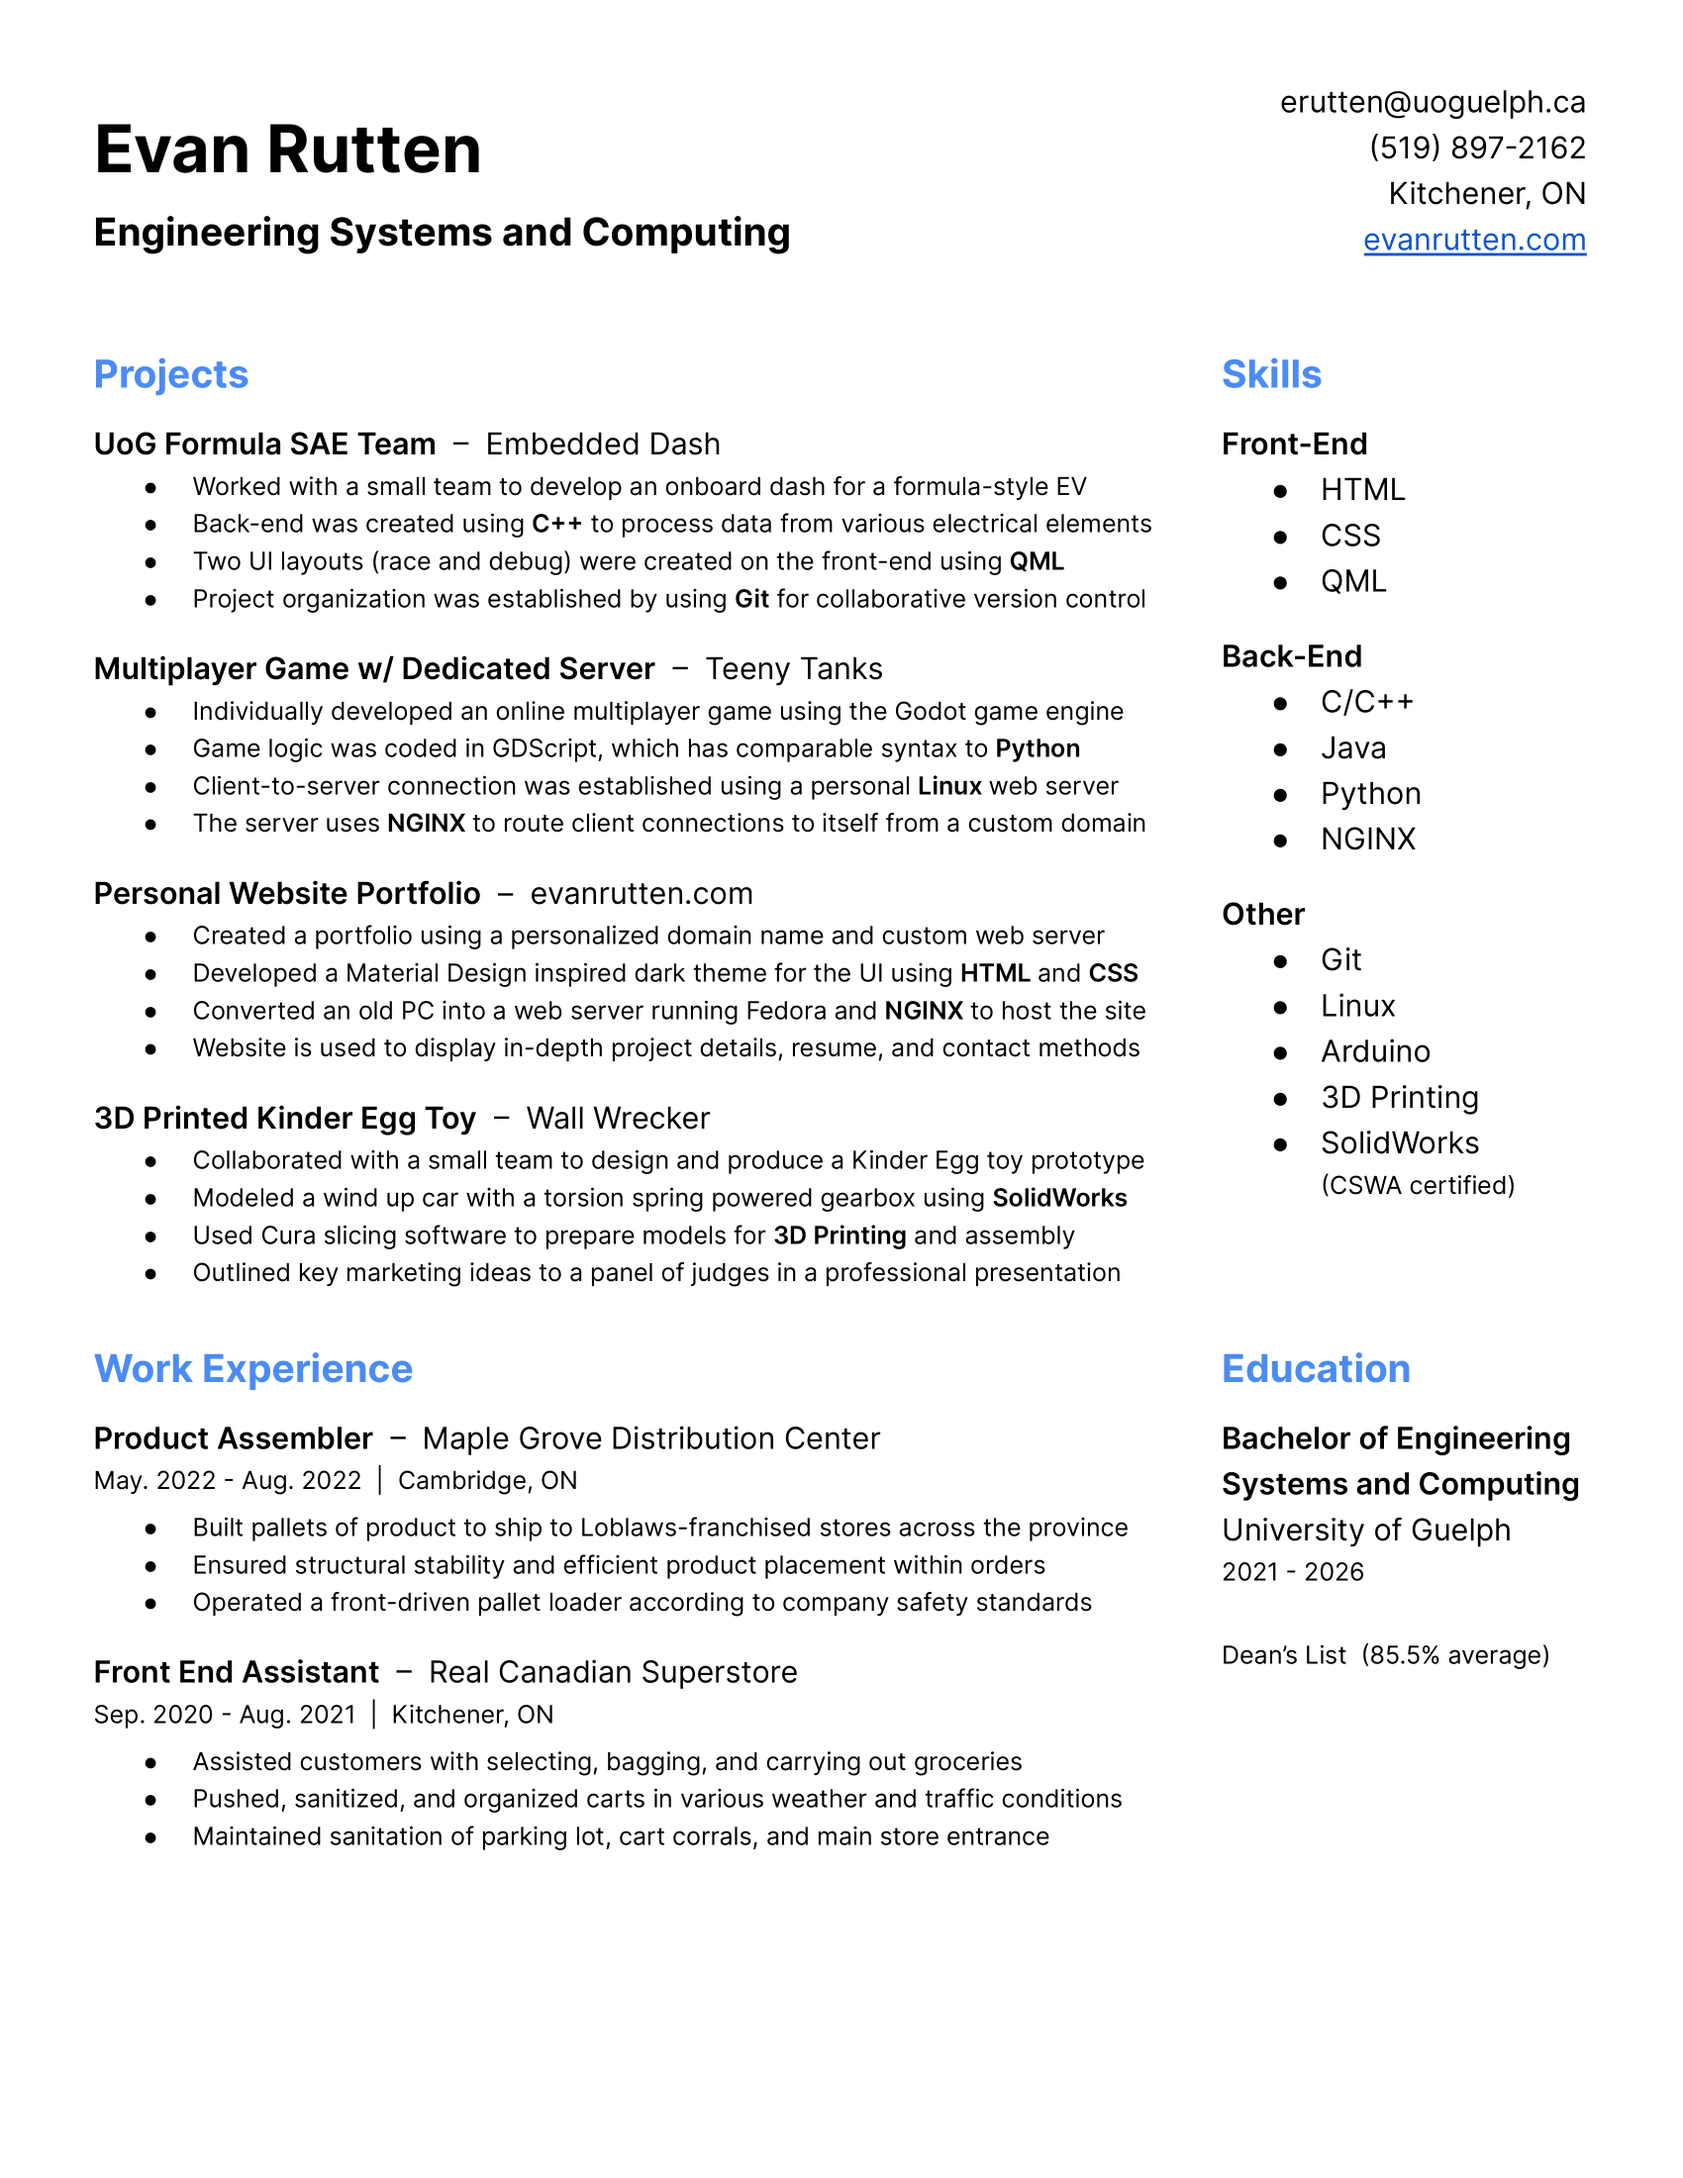
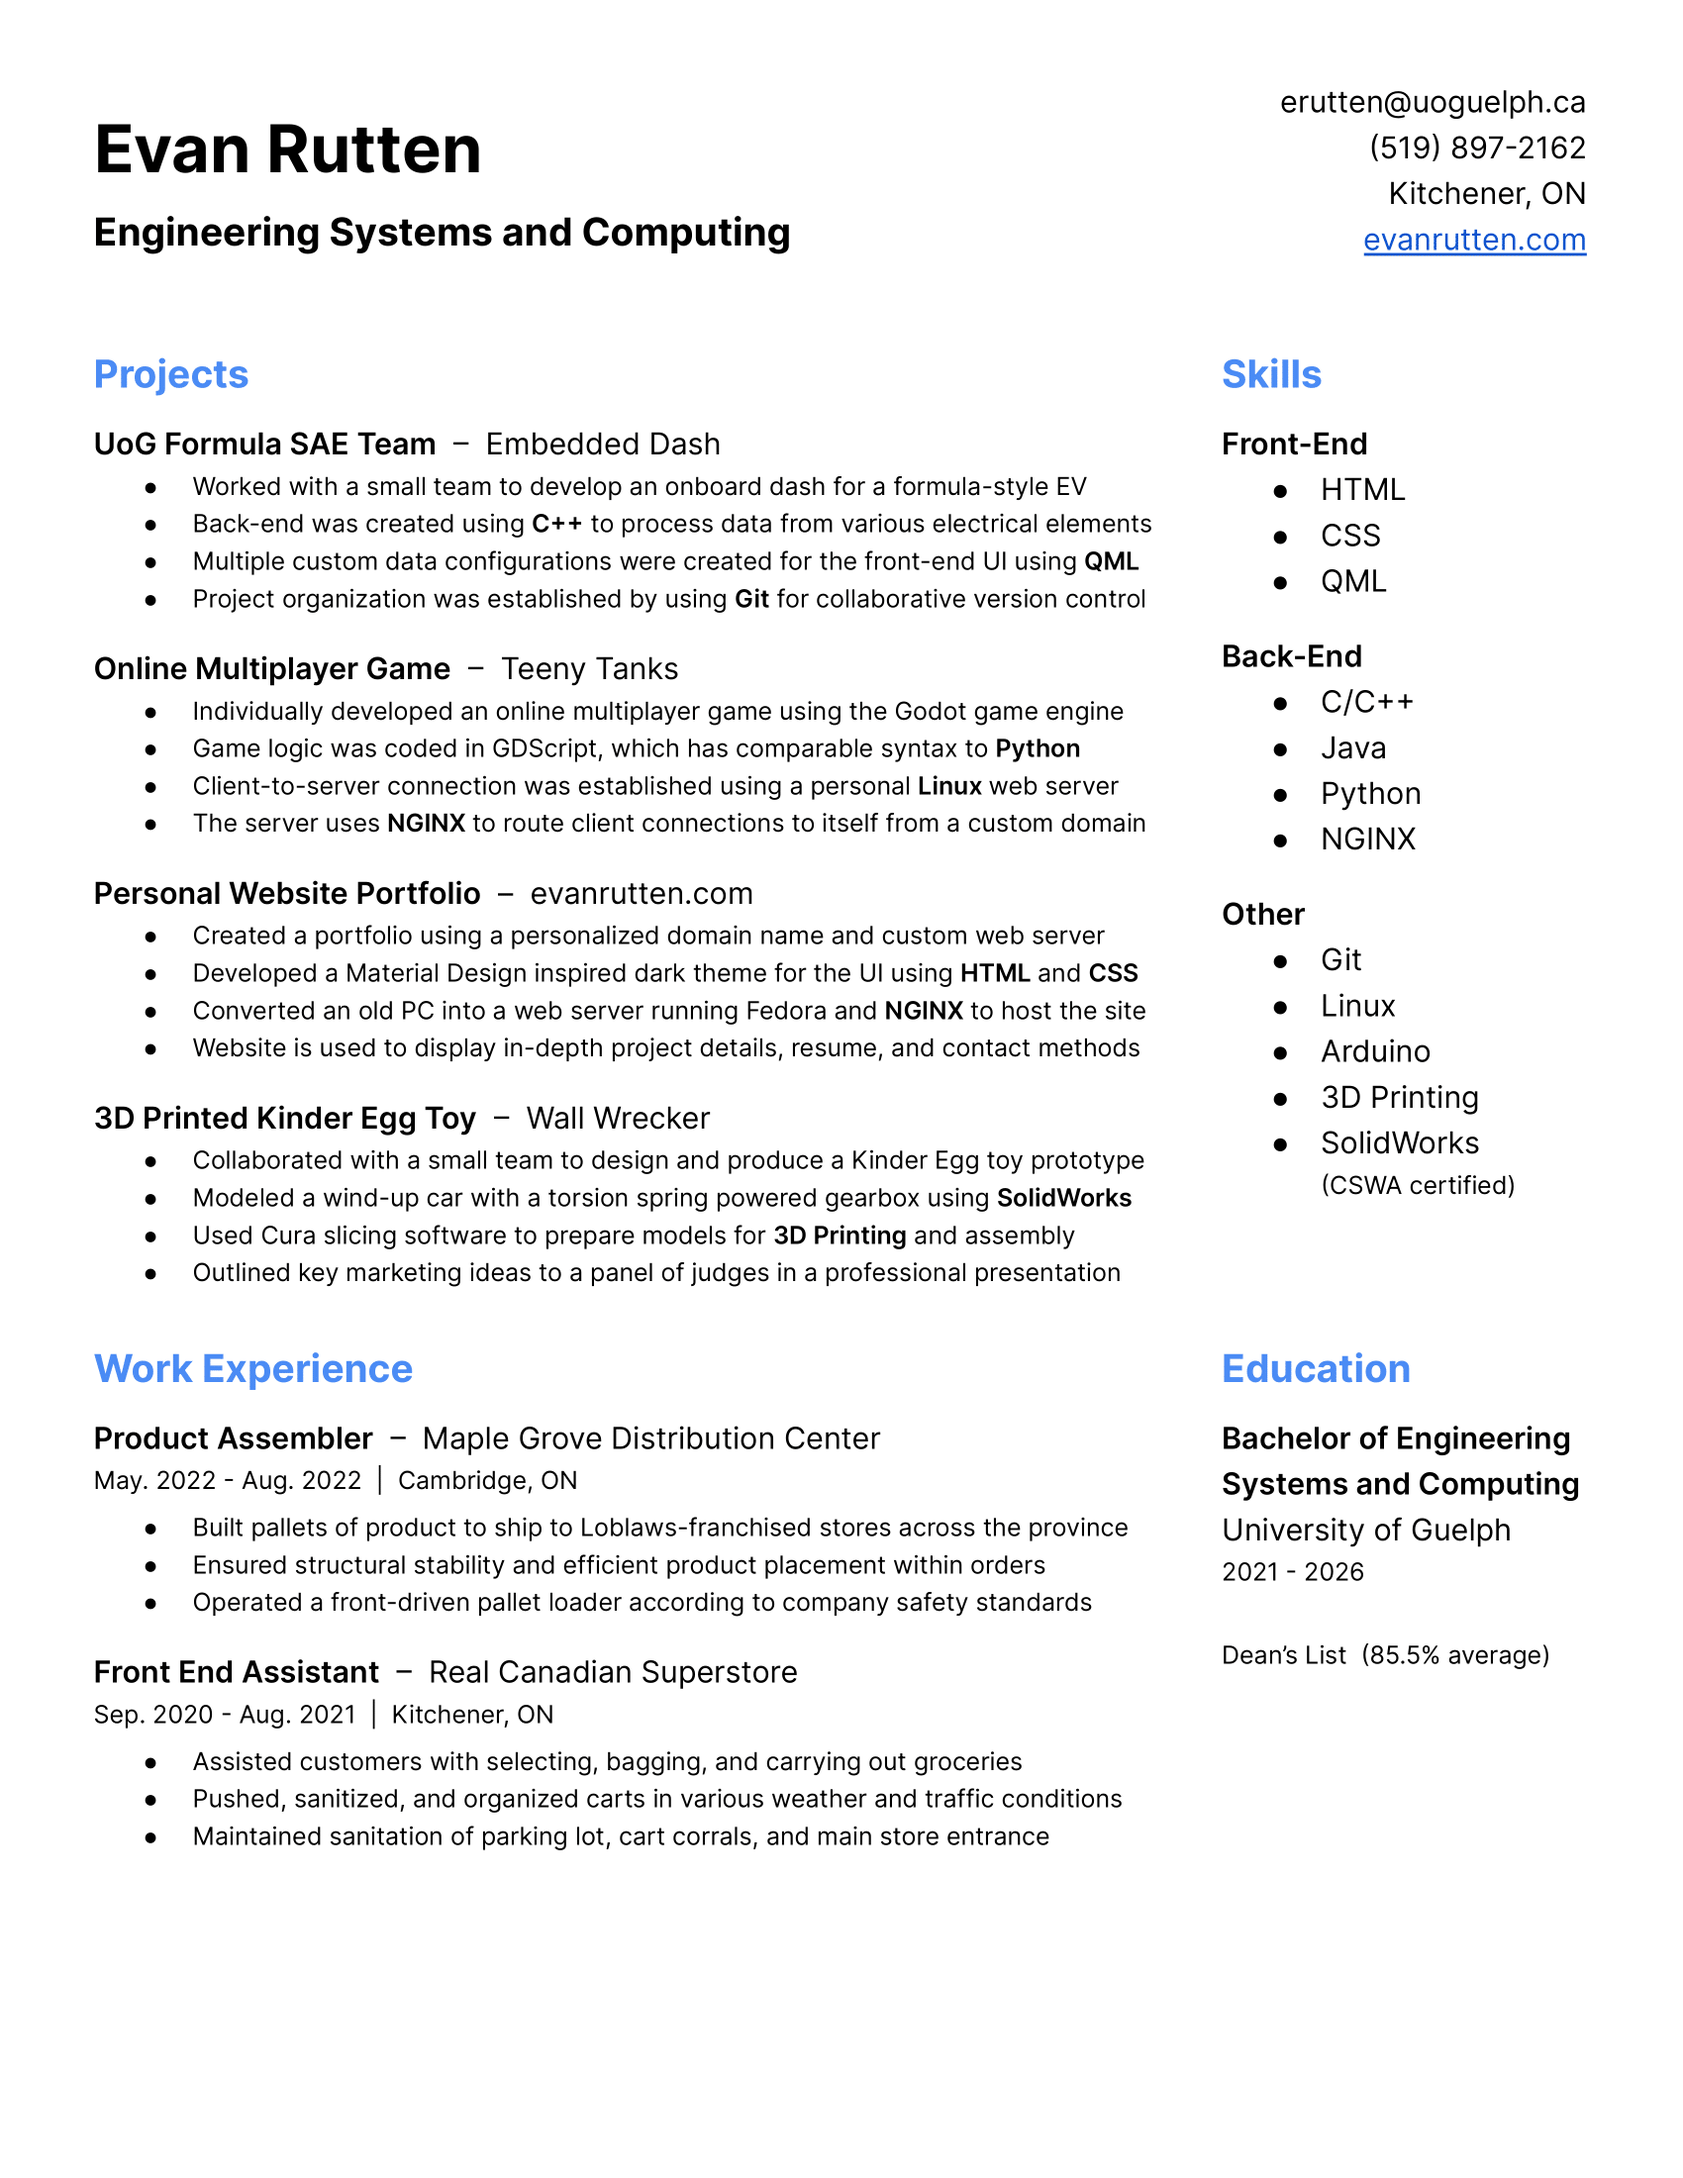
project descriptions

Changed region(s): [[0.0624, 0.2473, 0.6859, 0.3091], [0.2182, 0.5255, 0.6859, 0.5564]]

diff --git a/index.html b/index.html
@@ -71,14 +71,17 @@
             <div class="format">
               <h2>UoG Formula SAE Team - Embedded Dash</h2>
               <p>
-                Lorem ipsum dolor sit amet, consectetur adipiscing elit, sed do
-                eiusmod tempor incididunt ut labore et dolore magna aliqua. Ut
-                enim ad minim veniam, quis nostrud exercitation ullamco laboris
-                nisi ut aliquip ex ea commodo consequat. Duis aute irure dolor
-                in reprehenderit in voluptate velit esse cillum dolore eu fugiat
-                nulla pariatur. Excepteur sint occaecat cupidatat non proident,
-                sunt in culpa qui officia deserunt mollit anim id est
-                laborum.<br /><br /><b>Skills</b>
+                An onboard dash built for a formula-style EV, designed in
+                collaboration with the embedded subsection of the Gryphon Racing
+                Team. The back-end of the project utilizes <u>C++</u> to connect
+                various electrical signals from the Energy Meter, BMS, and Motor
+                Controller to a centralized Raspberry Pi. The front-end makes
+                use of <u>QML</u> to display several data configurations,
+                including a Race, Debug, and Tuning mode. The codebase for the
+                project is managed in a professional manner, utilizing
+                <u>Git</u> for organized version control.<br /><br /><b
+                  >Skills</b
+                >
               </p>
               <ul>
                 <li>QML</li>
@@ -90,16 +93,18 @@
           <section>
             <img src="/images/teeny_tanks.png" />
             <div class="format">
-              <h2>Multiplayer Game w/ Dedicated Server - Teeny Tanks</h2>
+              <h2>Online Multiplayer Game - Teeny Tanks</h2>
               <p>
-                Lorem ipsum dolor sit amet, consectetur adipiscing elit, sed do
-                eiusmod tempor incididunt ut labore et dolore magna aliqua. Ut
-                enim ad minim veniam, quis nostrud exercitation ullamco laboris
-                nisi ut aliquip ex ea commodo consequat. Duis aute irure dolor
-                in reprehenderit in voluptate velit esse cillum dolore eu fugiat
-                nulla pariatur. Excepteur sint occaecat cupidatat non proident,
-                sunt in culpa qui officia deserunt mollit anim id est
-                laborum.<br /><br /><b>Skills</b>
+                A browser-based online multiplayer PvP game, created with the
+                free and open-source Godot game engine. The project was coded in
+                GDScript, a language purpose built for the engine with nearly
+                identical syntax to <u>Python</u>. The game establishes a
+                client-server connection using a personal <u>Linux</u> web
+                server. An <u>NGINX</u> server block allows users to connect
+                through the browser using the WebSocket protocol. All project
+                files are properly managed using <u>Git</u> version control.<br /><br /><b
+                  >Skills</b
+                >
               </p>
               <ul>
                 <li>Python (GDScript)</li>
@@ -107,6 +112,10 @@
                 <li>NGINX</li>
                 <li>Git</li>
               </ul>
+              <br />
+              <a href="https://teeny-tanks.evanrutten.com" target="blank"
+                >[teeny-tanks.evanrutten.com]</a
+              >
             </div>
           </section>
           <section>
@@ -114,14 +123,16 @@
             <div class="format">
               <h2>Personal Website Portfolio - evanrutten.com</h2>
               <p>
-                Lorem ipsum dolor sit amet, consectetur adipiscing elit, sed do
-                eiusmod tempor incididunt ut labore et dolore magna aliqua. Ut
-                enim ad minim veniam, quis nostrud exercitation ullamco laboris
-                nisi ut aliquip ex ea commodo consequat. Duis aute irure dolor
-                in reprehenderit in voluptate velit esse cillum dolore eu fugiat
-                nulla pariatur. Excepteur sint occaecat cupidatat non proident,
-                sunt in culpa qui officia deserunt mollit anim id est
-                laborum.<br /><br /><b>Skills</b>
+                A website built from the ground up to act as a personal
+                portfolio, showcasing my projects, resume, and contact
+                information. The front-end was developed using standard
+                <u>HTML</u> and <u>CSS</u>, implementing a dark UI theme using
+                standards from Material Design. The website is hosted through a
+                custom domain name and private <u>Linux</u> web server. An
+                <u>NGINX</u> server block is utilized to implement SSL
+                encryption, allowing for users to connect securely. The project
+                is maintained using <u>Git</u> version control for proper
+                organization.<br /><br /><b>Skills</b>
               </p>
               <ul>
                 <li>HTML + CSS</li>
@@ -136,14 +147,17 @@
             <div class="format">
               <h2>3D Printed Kinder Egg Toy - Wall Wrecker</h2>
               <p>
-                Lorem ipsum dolor sit amet, consectetur adipiscing elit, sed do
-                eiusmod tempor incididunt ut labore et dolore magna aliqua. Ut
-                enim ad minim veniam, quis nostrud exercitation ullamco laboris
-                nisi ut aliquip ex ea commodo consequat. Duis aute irure dolor
-                in reprehenderit in voluptate velit esse cillum dolore eu fugiat
-                nulla pariatur. Excepteur sint occaecat cupidatat non proident,
-                sunt in culpa qui officia deserunt mollit anim id est
-                laborum.<br /><br /><b>Skills</b>
+                A small toy designed for use in Kinder Surprise eggs, designed
+                in collaboration with a small team of engineers. The toy
+                represents a mobile battering ram, consisting of a wind-up crank
+                powering a torsion spring gearbox. The toy was modelled in
+                <u>SolidWorks</u>, as all members of the group are CSWA
+                certified. The parts were prepared using the Cura slicing
+                software and manufactured through <u>3D Printing</u>. The
+                finished product, including cost and market research, was
+                presented to a panel of judges for evaluation.<br /><br /><b
+                  >Skills</b
+                >
               </p>
               <ul>
                 <li>SolidWorks</li>

diff --git a/styles.css b/styles.css
@@ -128,6 +128,16 @@ main {
   margin-bottom: 0;
 }
 
+.format a {
+  font-size: 0.75rem;
+  color: #b0bac5;
+  text-decoration: none;
+}
+
+.format a:hover {
+  filter: brightness(90%);
+}
+
 .welcome section {
   align-items: center;
 }
